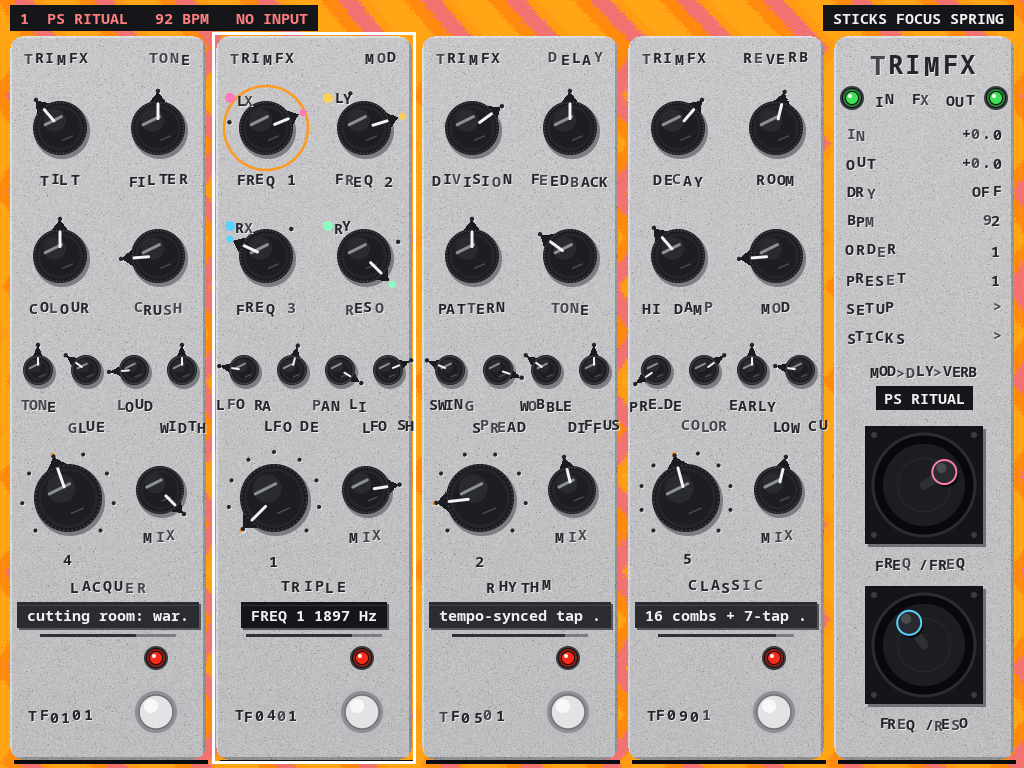
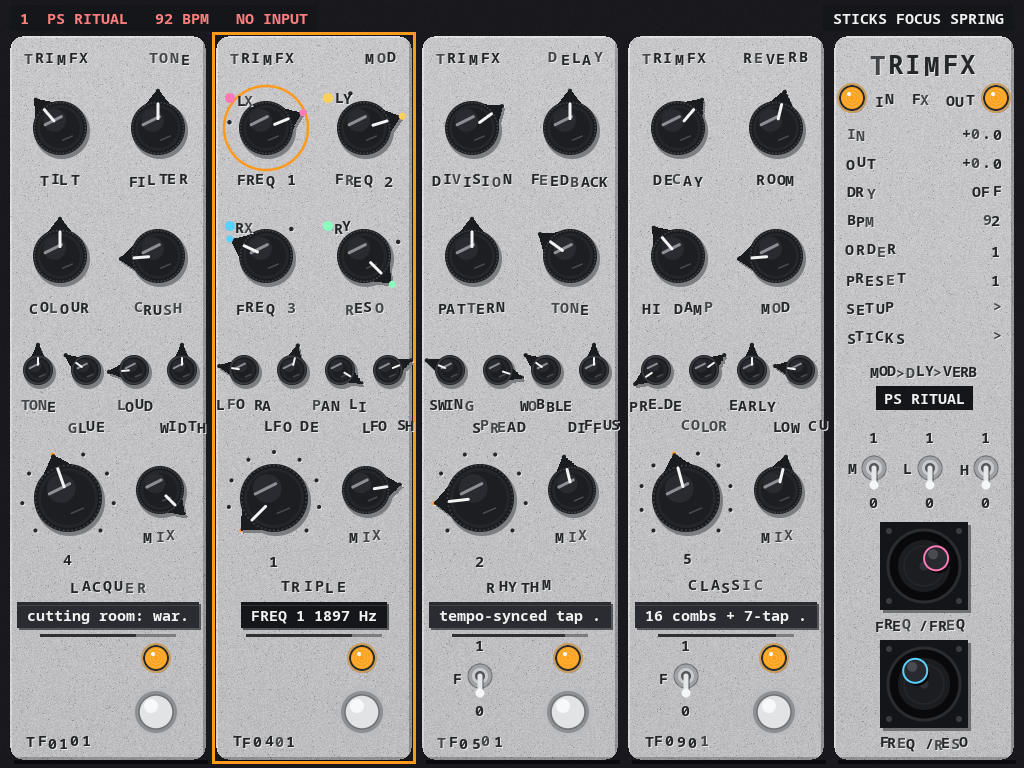
UI: dark board, teardrop knobs, ribbed amber LEDs, mini toggles
Drop the coloured backdrop for a dark board; knobs taper into teardrop
pointers; LEDs get a ribbed amber lens; mini toggles show freeze on
DELAY / REVERB and the sticks' MATRIX / LATCH / HOLD on the master box.

Claude-Session: https://claude.ai/code/session_012i4RnoiBPU59bPp5z44ANL

Changed region(s): [[0.0, 0.0, 1.0, 1.0], [0.4688, 0.125, 0.5, 0.1562]]

diff --git a/src/main.c b/src/main.c
@@ -819,13 +819,9 @@ static void make_bg(void)
     if (!bg) return;
     for (int y = 0; y < H; y++)
         for (int x = 0; x < W; x++) {
-            /* a melting orange / pink backdrop, after the photo the boxes sit on */
-            float zig = fabsf(fmodf(y * 0.021f + 40.f, 2.f) - 1.f) * 38.f;           /* zig-zag */
-            float t = (x + zig + 9.f * sinf(y * 0.013f + x * 0.004f)) * 0.012f;
             uint32_t h = hash32((uint32_t)(y * W + x) * 2654435761u);
-            t += ((h & 255) / 255.f - 0.5f) * 0.05f + (((h >> 8) % 7) == 0 ? 0.04f : 0.f); /* the smear */
-            float f = t - floorf(t);
-            bg[y * W + x] = f < 0.42f ? 0xffa516 : f < 0.62f ? 0xff8a0e : f < 0.86f ? 0xf27272 : 0xff9c14;
+            int v = 0x17 + (int)(h & 3);                     /* the board: dark, faintly grainy */
+            bg[y * W + x] = (uint32_t)(v << 16 | v << 8 | (v + 5));
         }
     for (int k = 0; k < 5; k++) {
         int x0 = PED_X(k), w = k < 4 ? PED_W : MST_W, y0 = PED_Y, h = PED_H, rr = 12;
@@ -884,8 +880,10 @@ static void knob(int cx, int cy, int r, float stored, float lv, uint32_t axc, in
     gfx_disc(cx + 2, cy + 3, r + 1, 0x7d7f82); /* its shadow on the metal */
     /* the pointer nub */
     float a = KNOB_A0 + KNOB_SPAN * (used ? lv : 0.5f);
-    float tip[6] = {cx + (r + 9) * cosf(a), cy + (r + 9) * sinf(a), cx + r * cosf(a - 0.3f), cy + r * sinf(a - 0.3f),
-                    cx + r * cosf(a + 0.3f), cy + r * sinf(a + 0.3f)};
+    /* the teardrop: the cap tapers into its pointer */
+    float tip[6] = {cx + (r + 12) * cosf(a), cy + (r + 12) * sinf(a), cx + (r - 2) * cosf(a - 0.62f), cy + (r - 2) * sinf(a - 0.62f),
+                    cx + (r - 2) * cosf(a + 0.62f), cy + (r - 2) * sinf(a + 0.62f)};
+    gfx_tri(tip[0] + 2, tip[1] + 3, tip[2] + 2, tip[3] + 3, tip[4] + 2, tip[5] + 3, 0x7d7f82);
     gfx_tri(tip[0], tip[1], tip[2], tip[3], tip[4], tip[5], 0x1b1c1f);
     gfx_disc(cx, cy, r, 0x1b1c1f);
     for (int i = 0; i < 48; i++) { /* the knurling */
@@ -904,13 +902,35 @@ static void knob(int cx, int cy, int r, float stored, float lv, uint32_t axc, in
     if (fabsf(lv - stored) > 0.004f) gfx_disc(cx + (r + 13) * cosf(a), cy + (r + 13) * sinf(a), 3.5f, axc);
 }
 
-/* the LED in its black bezel */
+/* the LED: a ribbed lens in its bezel, lit or dark */
 static void led(int cx, int cy, uint32_t c, int lit)
 {
-    gfx_disc(cx, cy, 11.f, 0x101114);
-    gfx_ring(cx, cy, 11.f, 2.f, 0x3a3c40);
-    gfx_disc(cx, cy, 6.f, lit ? c : gfx_mix(0x101114, c, 0.18f));
-    if (lit) { gfx_ring(cx, cy, 8.f, 2.f, gfx_mix(0x101114, c, 0.55f)); gfx_disc(cx - 2, cy - 2, 2.f, 0xffffff); }
+    gfx_disc(cx + 1, cy + 2, 13.f, 0x7d7f82);
+    gfx_disc(cx, cy, 13.f, 0x2a2b2e);
+    uint32_t lens = lit ? c : gfx_mix(0x1c1d20, c, 0.22f);
+    gfx_disc(cx, cy, 11.f, lens);
+    for (int i = 3; i <= 9; i += 3) gfx_ring(cx, cy, (float)i, 1.f, gfx_mix(lens, lit ? 0xffffff : 0x000000, 0.25f));
+    if (lit) gfx_ring(cx, cy, 14.f, 2.f, gfx_mix(0x9a9c9f, c, 0.5f));
+    gfx_disc(cx - 3, cy - 4, 2.f, lit ? 0xffffff : 0x8a8c90);
+}
+
+/* a mini toggle on its nut: lever up (1) or down (0), the letter beside it, 1 and 0 stamped */
+static void toggle(int cx, int cy, const char *letter, int up, int selected)
+{
+    if (selected) gfx_rect(cx - 30, cy - 44, 52, 88, 2, ACCENT);
+    stamp_c(cx, cy - 44, "1", 0, 0);
+    stamp_c(cx, cy + 22, "0", 0, 0);
+    stamp(cx - 26, cy - 11, letter, 0, 0);
+    float hx[12];
+    for (int i = 0; i < 6; i++) hx[2 * i] = cx + 13 * cosf(i * TFX_PI / 3 + 0.5f), hx[2 * i + 1] = cy + 13 * sinf(i * TFX_PI / 3 + 0.5f);
+    gfx_poly(hx, 6, 0x9fa1a4);
+    gfx_ring(cx, cy, 12.f, 1.f, 0x6a6c70);
+    gfx_disc(cx, cy, 8.f, 0xc9cbce);
+    gfx_disc(cx, cy, 5.f, 0x55575b);
+    float ty = up ? cy - 17 : cy + 17;
+    gfx_line(cx + 1, cy + 1, cx + 1, ty + 1, 5.f, 0x55575b);
+    gfx_line(cx, cy, cx, ty, 5.f, 0xe6e7e9);
+    gfx_disc(cx, ty, 4.5f, 0xf6f7f8);
 }
 
 /* a chrome footswitch on its nut */
@@ -994,7 +1014,7 @@ static void pedal(int x, int m)
     const ModState *ms = &base.m[m];
     int a = ms->algo, on = !ms->bypass, focused = col == m && !overlay, s = sel[m];
     int y = PED_Y;
-    if (focused) gfx_rect(x - 4, y - 4, PED_W + 8, PED_H + 8, 3, 0xffffff);
+    if (focused) gfx_rect(x - 4, y - 4, PED_W + 8, PED_H + 8, 3, ACCENT);
     char b[64], v[48];
 
     /* the maker and the box's name, stamped across the top */
@@ -1064,10 +1084,10 @@ static void pedal(int x, int m)
 
     /* the LED, the footswitch, the serial */
     int frozen = (m == M_DELAY && base.freeze_dly) || (m == M_VERB && base.freeze_verb);
-    led(x + 146, y + 622, frozen ? 0x4fb8ff : 0xff2b1a, on || frozen);
+    led(x + 146, y + 622, frozen ? 0x4fb8ff : 0xffa21a, on || frozen);
     footswitch(x + 146, y + 676, !on);
-    stamp(x + 18, y + 668, CODE[m], 0, 2);
-    if (frozen) stamp(x + 18, y + 620, "FROZEN", 0, 1);
+    stamp(x + 16, y + 694, CODE[m], 0, 2);
+    if (m == M_DELAY || m == M_VERB) toggle(x + 58, y + 640, "F", frozen, 0); /* FREEZE: L3 / R3 */
     else if (!on) stamp(x + 18, y + 620, "BYPASS", 0, 1);
     /* the level, a thin bar under the readout */
     float t = clampf((lin2db(vu_mod[m] + 1e-9f) + 48.f) / 48.f, 0.f, 1.f);
@@ -1078,7 +1098,7 @@ static void pedal(int x, int m)
 static void master_strip(int x, int w)
 {
     int focused = col == COL_MASTER && !overlay, y = PED_Y;
-    if (focused) gfx_rect(x - 4, y - 4, w + 8, PED_H + 8, 3, 0xffffff);
+    if (focused) gfx_rect(x - 4, y - 4, w + 8, PED_H + 8, 3, ACCENT);
     stamp_c(x + w / 2, y + 10, "TRIMFX", 1, 2);
     stamp_c(x + w / 2, y + 52, "IN  FX  OUT", 0, 0);
     int ry0 = y + 86;
@@ -1110,21 +1130,26 @@ static void master_strip(int x, int w)
     gfx_fill(x + w / 2 - tw / 2, ny + 26, tw, 24, 0x14161a);
     text_c(x + w / 2, ny + 27, nm, 0xf2f2f2, FONT_SMALL);
     /* the two joysticks: where the sticks are, and what they move */
+    /* the sticks' three toggles: M matrix, L latch, H hold (B, X, Y) */
+    int tyy = ny + 108;
+    toggle(x + w / 2 - 50, tyy, "M", stick_matrix, 0);
+    toggle(x + w / 2 + 6, tyy, "L", stick_latch, 0);
+    toggle(x + w / 2 + 62, tyy, "H", hold_on, 0);
     float av[NAX];
     axes(av);
-    int m = focus_mod, a = base.m[m].algo, sz = w - 62;
+    int m = focus_mod, a = base.m[m].algo, sz = 88;
     for (int s = 0; s < 2; s++) {
-        int cy = ny + 66 + sz / 2 + s * (sz + 42);
+        int cy = tyy + 54 + sz / 2 + s * (sz + 30);
         joystick(x + w / 2, cy, sz, av[2 * s], av[2 * s + 1], stick_matrix ? 0x8a8c90 : AXCOL[2 * s]);
         char lab[40];
         if (stick_matrix) snprintf(lab, sizeof lab, "%s MATRIX", s ? "R" : "L");
         else snprintf(lab, sizeof lab, "%.5s/%.5s", eng_info(m)->pname[a][2 * s], eng_info(m)->pname[a][2 * s + 1]);
-        stamp_c(x + w / 2, cy + sz / 2 + 8, lab, 0, 0);
+        stamp_c(x + w / 2, cy + sz / 2 + 3, lab, 0, 0);
     }
     /* the levels: a light each side of the maker's name, in and out */
     float li = fmaxf(vu_in[0], vu_in[1]), lo = fmaxf(vu_out[0], vu_out[1]);
-    led(x + 18, y + 62, li > 0.9f ? 0xff2b1a : 0x43e05a, li > 0.01f);
-    led(x + w - 18, y + 62, lo > 0.9f ? 0xff2b1a : 0x43e05a, lo > 0.01f);
+    led(x + 18, y + 62, li > 0.9f ? 0xff2b1a : 0xffa21a, li > 0.01f);
+    led(x + w - 18, y + 62, lo > 0.9f ? 0xff2b1a : 0xffa21a, lo > 0.01f);
 }
 
 static void draw_top(void)

diff --git a/README.md b/README.md
@@ -54,7 +54,8 @@ at once. On the Brick Pro, the stick rings light up as you push.
 
 Everything is on one screen: a board of raw-aluminium boxes with hand-stamped lettering, in signal order:
 - **Four pedals**: TONE, MOD, DELAY and REVERB.
-- **A master box**: IN and OUT gain, DRY, TEMPO, ORDER and PRESET, the IN / OUT lights and the two joysticks.
+- **A master box**: IN and OUT gain, DRY, TEMPO, ORDER and PRESET, the IN / OUT lights, three mini toggles
+  for the sticks (M matrix, L latch, H hold) and the two joysticks.
 
 Each pedal has:
 - **four big knobs**: the PERFORM set, on the sticks
@@ -62,7 +63,8 @@ Each pedal has:
 - a big **ALGORITHM** selector knob, with a punched dot for each position
 - a **MIX** knob
 - a **Dymo-tape readout** of what you are turning
-- an **LED**: red when on, dark when bypassed, blue when frozen
+- an amber **LED** with a ribbed lens: lit when on, dark when bypassed, blue when frozen
+- on DELAY and REVERB, a mini **F toggle** that shows FREEZE (L3 / R3)
 - a chrome **footswitch**
 
 Each knob's pointer shows the live value. A punched dot on the metal marks the stored setting, and
